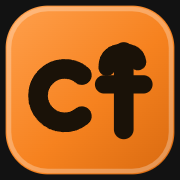
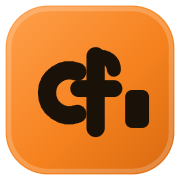
feat(brand): 重构标识为"cf + 终端光标"，标识可闪烁
概念：cf 是已经键入的命令，块状光标停在末尾等待执行 —— 这正是
智能体使用它的方式：描述意图，cf 给出命令。标识于是直接表达了
产品本身（一个等待输入的提示符），而不只是两个字母。

选型过程（4 轮候选横向对比 180/48/32/16px）：
- 提示符 ❯ + 光标：16px 最清晰，但丢掉 cf 名称
- 提示符 + cf：小尺寸下 chevron 与 c 挤在一起，淘汰
- 加粗收紧版：c 与 f 粘连，淘汰
- 最终：cf + 8.5×13 块状光标（经典终端光标比例）

实现
- 光标在站内以 steps(1) 1.06s 闪烁，让标识读起来像活的提示符；
  这是有意义的动效而非装饰
- prefers-reduced-motion 下显式固定为可见 —— 全局的动画压缩规则
  会把动画停在最后一帧，不加这条光标会永久隐形
- favicon 保持静态（favicon 动画不可靠且持续耗电），
  两版几何在注释中互相指向，修改必须同步
- 同步更新 icon-32 / apple-touch-icon / mask-icon / og.png

diff --git a/src/styles/global.css b/src/styles/global.css
@@ -285,6 +285,13 @@
     animation-iteration-count: 1 !important;
     transition-duration: 0.001ms !important;
   }
+
+  /* 显式固定光标为可见：全局规则把动画压缩成一次瞬时播放，
+     不能让标识的光标停在不可见状态。 */
+  .logo-caret {
+    animation: none !important;
+    opacity: 1 !important;
+  }
 }
 
 /* 光标闪烁 */
@@ -306,6 +313,23 @@
   translate: 0 0.14em;
   background: var(--color-ember-500);
   animation: caret 1.05s steps(1) infinite;
+}
+
+/* 品牌标识里的终端光标：让标识读起来像一个活的提示符。
+   这是有意义的动效（提示符在等待输入），不是装饰。 */
+@keyframes logo-caret {
+  0%,
+  49% {
+    opacity: 1;
+  }
+  50%,
+  100% {
+    opacity: 0;
+  }
+}
+
+.logo-caret {
+  animation: logo-caret 1.06s steps(1) infinite;
 }
 
 @keyframes drift {
